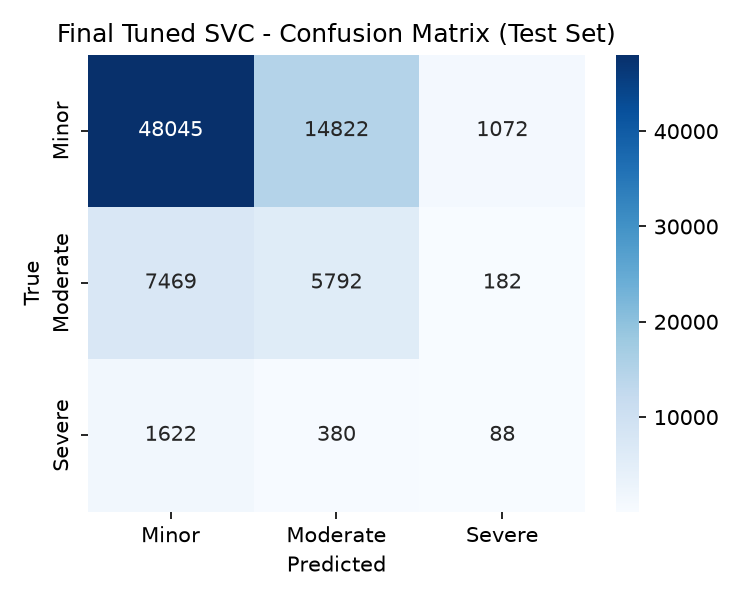
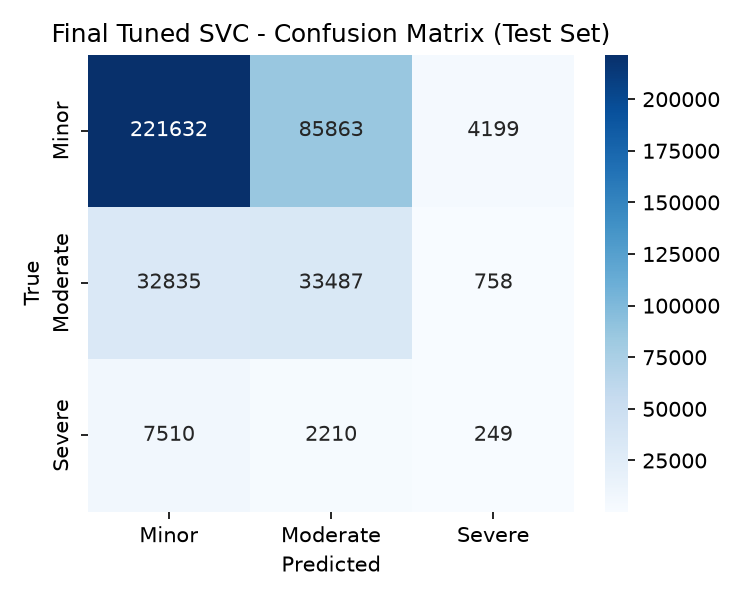
Bump sample size to 2M rows and retrain on the full split
Increases the stratified sample from 400K to 2M rows (1,943,711 after dedup) now that LightGBM doesn't have SVC's scaling ceiling. Retrained all four variants on the new data: LightGBM trains on the full 1,554,968-row split (no subsample), while the SVC variants still draw an 8K stratified subsample from it. Macro-F1 barely moved for LightGBM (0.443 -> 0.442), suggesting it was already saturated at the old data size; SVC numbers shifted slightly with the new subsample draw. summary.md and the dashboard still reflect the old numbers -- updating those separately.

diff --git a/src/data_prep.py b/src/data_prep.py
@@ -9,7 +9,7 @@ RAW_DIR = os.path.join(os.path.dirname(__file__), "..", "data", "raw")
 PROCESSED_DIR = os.path.join(os.path.dirname(__file__), "..", "data", "processed")
 SAMPLE_PATH = os.path.join(RAW_DIR, "us_accidents_sample.csv")
 KAGGLE_DATASET = "sobhanmoosavi/us-accidents"
-SAMPLE_SIZE = 400_000
+SAMPLE_SIZE = 2_000_000
 RANDOM_STATE = 42
 
 

diff --git a/results/final_report.md b/results/final_report.md
@@ -1,25 +1,25 @@
 # Final Model Evaluation
 
 Final tuned SVC (`models/final_svc.joblib`), evaluated on the held-out test set
-(79472 rows).
+(388743 rows).
 
 ## Model comparison (test set, all four trained/evaluated the same way)
 
 | Variant | Accuracy | Macro-F1 | Minor Recall | Moderate Recall | Severe Recall |
 |---|---|---|---|---|---|
-| Baseline (no balancing) | 0.805 | 0.297 | 1.000 | 0.000 | 0.000 |
-| SMOTENC-balanced | 0.301 | 0.251 | 0.217 | 0.674 | 0.459 |
-| Tuned (Optuna) | 0.679 | 0.394 | 0.751 | 0.431 | 0.042 |
-| LightGBM (class-weighted) | 0.552 | 0.443 | 0.500 | 0.761 | 0.816 |
+| Baseline (no balancing) | 0.802 | 0.297 | 1.000 | 0.000 | 0.000 |
+| SMOTENC-balanced | 0.374 | 0.291 | 0.299 | 0.732 | 0.296 |
+| Tuned (Optuna) | 0.657 | 0.387 | 0.711 | 0.499 | 0.025 |
+| LightGBM (class-weighted) | 0.550 | 0.442 | 0.496 | 0.759 | 0.824 |
 
 Severe-class recall goes from 0.0% (baseline) to
-45.9% (SMOTENC) to 4.2% (tuned): Optuna
+29.6% (SMOTENC) to 2.5% (tuned): Optuna
 optimizes mean macro-F1 across CV folds, which favors getting Minor and Moderate
 right and trades away most of SMOTENC's Severe-recall gain to do it.
 
 LightGBM (`models/final_lgbm.joblib`), trained on the full training split with
 `class_weight="balanced"` instead of SMOTENC, beats every SVC variant on macro-F1
-(0.443) and Severe recall (81.6%) at once --
+(0.442) and Severe recall (82.4%) at once --
 both the scaling fix (no subsampling) and the tree model's better fit on this
 mixed categorical/continuous data show up directly in the numbers.
 
@@ -27,9 +27,9 @@ mixed categorical/continuous data show up directly in the numbers.
 
 | Class | Precision | Recall | F1 | Support |
 |---|---|---|---|---|
-| Minor | 0.841 | 0.751 | 0.794 | 63939 |
-| Moderate | 0.276 | 0.431 | 0.336 | 13443 |
-| Severe | 0.066 | 0.042 | 0.051 | 2090 |
+| Minor | 0.846 | 0.711 | 0.773 | 311694 |
+| Moderate | 0.275 | 0.499 | 0.355 | 67080 |
+| Severe | 0.048 | 0.025 | 0.033 | 9969 |
 
 ## Confusion matrix
 
